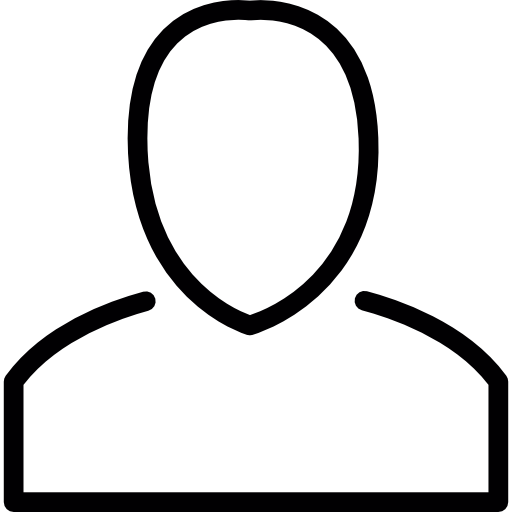
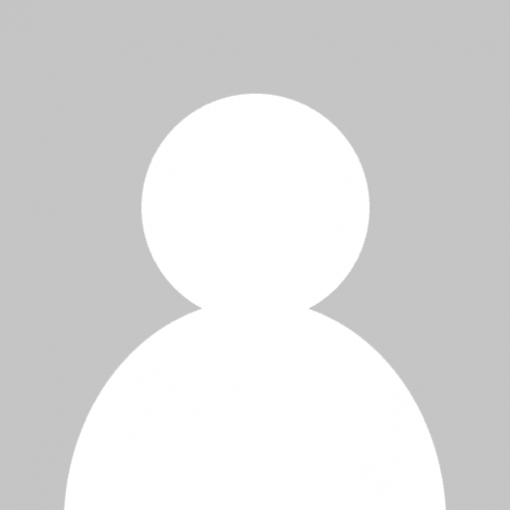
actualizacion principal y reportes

diff --git a/vista/css/inicio.css b/vista/css/inicio.css
@@ -1,9 +1,75 @@
-.imgPrincipla {
-    width: 100%;
+#principal {
     height: 100vh;
-    background-image: url(../imgs/principal/principal.svg);
-    background-size: contain;
-    background-attachment: fixed;
-    background-position: center;
-    background-repeat: no-repeat;
+    display: flex;
+    justify-content: center;
+    align-items: center;
+}
+
+
+/* #circulo {
+    animation: rotarCirculo 8s linear infinite;
+}
+
+@keyframes rotarCirculo {
+    0% {
+        transform: rotate(0deg);
+        transform-origin: center;
+    }
+    100% {
+        transform: rotate(360deg);
+        transform-origin: center;
+    }
+} */
+
+#flor1 {
+    animation: moverFlor1 2s ease infinite;
+}
+
+@keyframes moverFlor1 {
+    0% {
+        transform: translateY(50px);
+    }
+    50% {
+        transform: translateY(-50px);
+    }
+    100% {
+        transform: translateY(50px);
+    }
+}
+
+#flor2 {
+    animation: moverFlor2 2s .5s ease infinite;
+}
+
+@keyframes moverFlor2 {
+    0% {
+        transform: translateY(50px);
+    }
+    50% {
+        transform: translateY(-50px);
+    }
+    100% {
+        transform: translateY(50px);
+    }
+}
+
+#hombre {
+    animation: moverHombre 1s linear infinite;
+}
+
+@keyframes moverHombre {
+    0% {
+        transform: translateY(0px);
+    }
+    50% {
+        transform: translateY(-20px);
+    }
+    100% {
+        transform: translateY(0px);
+    }
+}
+
+svg {
+    width: 900px;
+    height: 900px;
 }

diff --git a/vista/modulos/inicio.php b/vista/modulos/inicio.php
@@ -1,5 +1,47 @@
 <body id="principal">
-    <header class="imgPrincipla">
-        
-    </header>
+    <svg width="642" height="598" viewBox="0 0 642 598" fill="none" xmlns="http://www.w3.org/2000/svg">
+        <g id="animacionInicio 1" clip-path="url(#clip0)">
+            <path id="circulo" d="M328.623 591.658C325.502 591.658 322.35 591.608 319.255 591.512L319.325 589.264C323.769 589.402 328.303 589.441 332.767 589.379L332.798 591.629C331.409 591.648 330.017 591.657 328.623 591.658ZM346.333 591.136L346.202 588.891C350.651 588.628 355.158 588.259 359.597 587.794L359.832 590.031C355.359 590.5 350.818 590.872 346.333 591.136V591.136ZM305.732 590.785C301.245 590.442 296.71 589.991 292.254 589.444L292.528 587.212C296.951 587.754 301.45 588.202 305.903 588.542L305.732 590.785ZM373.265 588.312L372.928 586.088C377.35 585.417 381.805 584.638 386.167 583.772L386.605 585.977C382.209 586.851 377.721 587.636 373.265 588.312ZM278.853 587.489C274.42 586.738 269.946 585.874 265.554 584.921L266.031 582.722C270.39 583.669 274.83 584.525 279.229 585.27L278.853 587.489ZM399.826 583.033L399.286 580.849C403.626 579.776 407.99 578.589 412.258 577.324L412.897 579.481C408.596 580.756 404.199 581.952 399.826 583.033ZM252.389 581.743C248.04 580.586 243.665 579.314 239.383 577.96L240.061 575.816C244.31 577.159 248.652 578.421 252.966 579.568L252.389 581.743ZM425.789 575.33L425.051 573.206C429.263 571.741 433.498 570.158 437.643 568.5L438.478 570.589C434.303 572.26 430.034 573.855 425.789 575.33L425.789 575.33ZM226.532 573.568C222.309 572.016 218.059 570.341 213.903 568.59L214.776 566.516C218.901 568.254 223.117 569.916 227.308 571.457L226.532 573.568ZM450.906 565.28L449.974 563.233C454.019 561.395 458.084 559.433 462.057 557.402L463.081 559.406C459.077 561.452 454.981 563.428 450.906 565.28ZM201.52 563.037C197.461 561.103 193.386 559.045 189.411 556.921L190.471 554.937C194.417 557.045 198.46 559.087 202.488 561.007L201.52 563.037ZM474.975 552.976L473.861 551.023C477.74 548.81 481.612 546.483 485.368 544.107L486.569 546.008C482.785 548.402 478.885 550.748 474.975 552.976ZM177.599 550.257C173.738 547.96 169.871 545.538 166.107 543.058L167.345 541.18C171.08 543.641 174.917 546.044 178.749 548.323L177.599 550.257ZM497.835 538.514L496.548 536.671C500.2 534.119 503.845 531.447 507.381 528.729L508.752 530.513C505.19 533.251 501.516 535.944 497.835 538.514ZM154.96 535.346C151.329 532.709 147.702 529.946 144.179 527.133L145.582 525.375C149.079 528.167 152.678 530.908 156.281 533.525L154.96 535.346ZM519.294 522.022L517.844 520.302C521.248 517.429 524.636 514.436 527.915 511.404L529.441 513.056C526.138 516.111 522.724 519.127 519.294 522.022ZM133.785 518.439C130.403 515.477 127.044 512.397 123.8 509.283L125.358 507.659C128.577 510.75 131.911 513.807 135.267 516.747L133.785 518.439ZM539.173 503.635L537.571 502.055C540.709 498.875 543.814 495.584 546.796 492.274L548.468 493.779C545.462 497.115 542.335 500.43 539.173 503.635V503.635ZM114.244 499.685C111.142 496.422 108.078 493.05 105.137 489.662L106.836 488.188C109.754 491.55 112.795 494.896 115.875 498.133L114.244 499.685ZM557.305 483.51L555.567 482.082C558.402 478.631 561.194 475.071 563.866 471.498L565.668 472.845C562.975 476.445 560.162 480.034 557.305 483.51ZM96.4971 479.239C93.7109 475.718 90.9675 472.083 88.3427 468.435L90.1683 467.122C92.7733 470.741 95.4959 474.349 98.2613 477.844L96.4971 479.239ZM573.535 461.807L571.674 460.544C574.183 456.85 576.64 453.048 578.976 449.242L580.894 450.42C578.538 454.254 576.062 458.086 573.535 461.807ZM80.6919 457.275C78.2407 453.517 75.8416 449.651 73.5607 445.78L75.4984 444.637C77.7623 448.479 80.1432 452.317 82.5758 456.045L80.6919 457.275ZM587.725 438.703L585.756 437.616C587.916 433.708 590.014 429.694 591.994 425.686L594.011 426.683C592.016 430.721 589.901 434.765 587.725 438.703ZM66.9639 433.973C64.8658 430.008 62.8315 425.939 60.9174 421.882L62.9518 420.922C64.8516 424.949 66.87 428.986 68.9521 432.921L66.9639 433.973ZM599.738 414.383L597.678 413.481C599.47 409.387 601.192 405.194 602.794 401.02L604.895 401.826C603.28 406.033 601.544 410.258 599.738 414.383V414.383ZM55.4333 409.529C53.7087 405.39 52.0571 401.156 50.5248 396.942L52.6393 396.173C54.1596 400.355 55.7985 404.557 57.5093 408.664L55.4333 409.529ZM609.466 389.04L607.331 388.332C608.735 384.102 610.06 379.779 611.268 375.48L613.434 376.089C612.216 380.42 610.88 384.778 609.466 389.04L609.466 389.04ZM46.1913 384.11C44.8529 379.823 43.5951 375.443 42.4533 371.091L44.6293 370.52C45.7623 374.839 47.0107 379.185 48.3388 383.44L46.1913 384.11ZM616.799 362.969L614.607 362.459C615.615 358.124 616.535 353.696 617.345 349.301L619.557 349.707C618.742 354.137 617.814 358.598 616.799 362.969L616.799 362.969ZM39.3203 357.914C38.3823 353.52 37.5332 349.044 36.7972 344.607L39.0161 344.238C39.7471 348.642 40.5896 353.084 41.5206 357.444L39.3203 357.914ZM621.701 336.336L619.471 336.03C620.076 331.624 620.587 327.132 620.99 322.676L623.231 322.878C622.825 327.369 622.31 331.896 621.701 336.336L621.701 336.336ZM34.887 331.199C34.3564 326.746 33.9208 322.21 33.5919 317.719L35.836 317.554C36.1617 322.013 36.5945 326.513 37.1212 330.933L34.887 331.199ZM624.147 309.367L621.9 309.266C622.1 304.809 622.202 300.287 622.202 295.829H624.451C624.452 300.322 624.349 304.877 624.147 309.367L624.147 309.367ZM32.9103 304.191C32.8334 301.433 32.7945 298.619 32.7939 295.829C32.7939 294.098 32.8087 292.37 32.8384 290.645L35.088 290.685C35.0584 292.396 35.0435 294.111 35.0435 295.829C35.0441 298.598 35.0831 301.391 35.1589 304.13L32.9103 304.191ZM622.185 292.69C622.139 288.23 621.99 283.709 621.743 279.253L623.988 279.128C624.237 283.618 624.388 288.173 624.435 292.666L622.185 292.69ZM35.622 277.254L33.3768 277.114C33.6575 272.619 34.0452 268.079 34.528 263.62L36.7645 263.862C36.285 268.288 35.9011 272.793 35.622 277.254ZM620.691 265.854C620.241 261.419 619.682 256.932 619.03 252.516L621.255 252.188C621.912 256.637 622.476 261.159 622.929 265.627L620.691 265.854ZM38.5159 250.536L36.2926 250.193C36.9819 245.742 37.7827 241.257 38.673 236.859L40.8776 237.305C39.9945 241.669 39.1997 246.121 38.5159 250.536ZM616.759 239.271C615.901 234.882 614.934 230.465 613.881 226.141L616.067 225.61C617.127 229.966 618.102 234.418 618.967 238.839L616.759 239.271ZM43.8446 224.197L41.6625 223.65C42.7549 219.293 43.9649 214.899 45.2589 210.591L47.4129 211.238C46.1294 215.513 44.9287 219.873 43.8446 224.197ZM610.401 213.158C609.147 208.875 607.776 204.566 606.327 200.35L608.454 199.618C609.915 203.867 611.297 208.21 612.561 212.525L610.401 213.158ZM51.5889 198.423L49.4666 197.677C50.9616 193.424 52.5758 189.151 54.2642 184.976L56.3502 185.82C54.6744 189.962 53.0723 194.203 51.5888 198.423H51.5889ZM601.665 187.743C600.024 183.603 598.267 179.448 596.441 175.393L598.493 174.469C600.333 178.555 602.104 182.742 603.757 186.914L601.665 187.743ZM61.6858 173.455L59.6415 172.516C61.5205 168.424 63.5202 164.32 65.5853 160.32L67.5845 161.351C65.5348 165.322 63.5504 169.394 61.6858 173.455ZM590.655 163.291C588.642 159.32 586.509 155.34 584.315 151.464L586.272 150.356C588.484 154.262 590.632 158.272 592.661 162.274L590.655 163.291ZM74.033 149.535L72.0832 148.413C74.3274 144.516 76.694 140.615 79.1178 136.82L81.0138 138.03C78.6087 141.797 76.2597 145.668 74.0331 149.535H74.033ZM577.439 139.935C575.061 136.15 572.572 132.381 570.04 128.729L571.888 127.447C574.44 131.127 576.949 134.925 579.343 138.738L577.439 139.935ZM88.5129 126.86L86.6741 125.564C89.2676 121.886 91.9791 118.22 94.7352 114.667L96.5125 116.046C93.7779 119.572 91.0861 123.21 88.5129 126.86ZM562.136 117.87C559.425 114.32 556.602 110.79 553.743 107.379L555.467 105.934C558.347 109.371 561.192 112.927 563.924 116.505L562.136 117.87ZM104.995 105.611L103.283 104.152C106.193 100.734 109.227 97.3314 112.298 94.0392L113.943 95.5738C110.895 98.8412 107.884 102.218 104.995 105.611ZM544.88 97.2781C541.858 93.9887 538.723 90.7285 535.564 87.5891L537.15 85.993C540.334 89.1571 543.492 92.4415 546.537 95.7556L544.88 97.2781ZM123.335 85.9579L121.762 84.3497C124.979 81.2027 128.308 78.0913 131.656 75.1024L133.154 76.7808C129.832 79.7466 126.528 82.8344 123.335 85.9579H123.335ZM525.818 78.3318C522.506 75.3281 519.086 72.3655 515.655 69.5266L517.089 67.7932C520.546 70.6536 523.992 73.6386 527.329 76.6655L525.818 78.3318ZM143.378 68.0601L141.957 66.3157C145.437 63.4823 149.033 60.6877 152.645 58.0097L153.986 59.8167C150.4 62.475 146.831 65.248 143.378 68.0601ZM505.101 61.1909C501.527 58.5002 497.851 55.86 494.173 53.344L495.443 51.4876C499.149 54.0223 502.853 56.6822 506.454 59.3938L505.101 61.1909ZM164.954 52.0681L163.699 50.2019C167.423 47.6963 171.256 45.2429 175.094 42.9081L176.262 44.8304C172.455 47.147 168.65 49.5823 164.954 52.0681ZM482.896 46.0042C479.095 43.6512 475.191 41.3577 471.293 39.186L472.387 37.2209C476.315 39.409 480.249 41.7207 484.08 44.0906L482.896 46.0042ZM187.887 38.1188L186.807 36.1449C190.747 33.9892 194.786 31.8977 198.813 29.9276L199.802 31.9487C195.806 33.9035 191.797 35.979 187.887 38.1188L187.887 38.1188ZM459.386 32.9066C455.383 30.9124 451.283 28.9856 447.199 27.1803L448.108 25.1229C452.224 26.942 456.356 28.8835 460.39 30.8931L459.386 32.9066ZM211.983 26.3329L211.089 24.2689C215.206 22.4844 219.417 20.773 223.606 19.1819L224.404 21.2854C220.248 22.8639 216.068 24.5621 211.983 26.3329L211.983 26.3329ZM434.756 22.0198C430.591 20.4045 426.328 18.8633 422.084 17.4398L422.801 15.3066C427.076 16.7417 431.372 18.2944 435.569 19.9228L434.756 22.0198ZM237.076 16.8043L236.375 14.6667C240.65 13.2651 245.012 11.9452 249.339 10.7452L249.941 12.9124C245.647 14.1037 241.318 15.413 237.076 16.8042L237.076 16.8043ZM409.246 13.4595C404.955 12.2363 400.579 11.0972 396.239 10.074L396.755 7.88477C401.129 8.91568 405.538 10.0636 409.863 11.2955L409.246 13.4595ZM262.972 9.61758L262.471 7.42451C266.854 6.42324 271.318 5.511 275.74 4.71352L276.14 6.92691C271.751 7.71888 267.321 8.62399 262.972 9.61755V9.61758ZM383.089 7.29269C378.708 6.4705 374.246 5.73896 369.826 5.11829L370.138 2.89062C374.592 3.5162 379.09 4.25326 383.504 5.0815L383.089 7.29269ZM289.419 4.84479L289.121 2.6149C293.574 2.02063 298.103 1.52084 302.582 1.13091L302.777 3.37177C298.333 3.75948 293.839 4.25489 289.419 4.84476L289.419 4.84479ZM356.477 3.55409C352.045 3.13667 347.535 2.81482 343.07 2.59897L343.18 0.351547C347.678 0.569547 352.222 0.893661 356.687 1.31433L356.477 3.55409ZM316.192 2.5089L316.097 0.261475C320.232 0.0890046 324.445 0.00113052 328.623 3.05176e-05L329.641 0.00163269L329.635 2.2513L328.623 2.24963C324.477 2.25073 320.294 2.33806 316.192 2.50887V2.5089Z" fill="#000" />
+            <path id="Vector" d="M249.532 368.072L263.371 386.451C264.46 387.612 265.966 388.292 267.556 388.342C269.147 388.392 270.692 387.809 271.852 386.72L308.429 352.389C309.589 351.3 310.269 349.794 310.319 348.204C310.37 346.613 309.786 345.068 308.697 343.908L298.596 333.146C297.507 331.986 296.002 331.306 294.411 331.255C292.821 331.205 291.275 331.788 290.115 332.877L249.8 359.591C248.64 360.68 247.96 362.186 247.91 363.776C247.859 365.367 248.443 366.912 249.532 368.072Z" fill="#CCCCCC" />
+            <g id="hombre">
+                <path id="Vector_2" d="M329.33 590.122V467.107C329.332 465.384 330.018 463.731 331.236 462.513C332.455 461.294 334.107 460.609 335.83 460.607H350.59C352.313 460.609 353.965 461.294 355.184 462.513C356.402 463.731 357.088 465.384 357.09 467.107V590.122C357.088 591.845 356.402 593.497 355.184 594.716C353.965 595.934 352.313 596.62 350.59 596.622H335.83C334.107 596.62 332.455 595.934 331.236 594.716C330.018 593.497 329.332 591.845 329.33 590.122Z" fill="#2F2E41" />
+                <path id="Vector_3" d="M300.138 590.122V467.107C300.14 465.384 300.825 463.731 302.044 462.513C303.262 461.294 304.914 460.609 306.638 460.607H321.398C323.121 460.609 324.773 461.294 325.992 462.513C327.21 463.731 327.896 465.384 327.898 467.107V590.122C327.896 591.845 327.21 593.497 325.992 594.716C324.773 595.934 323.121 596.62 321.398 596.622H306.638C304.914 596.62 303.262 595.934 302.044 594.716C300.825 593.497 300.14 591.845 300.138 590.122Z" fill="#2F2E41" />
+                <path id="Vector_4" d="M358.494 426.494H298.734C295.42 426.494 292.734 429.181 292.734 432.494V500C292.734 503.314 295.42 506 298.734 506H358.494C361.807 506 364.494 503.314 364.494 500V432.494C364.494 429.181 361.807 426.494 358.494 426.494Z" fill="#2F2E41" />
+                <path id="Vector_5" d="M228.149 233.226C228.149 233.226 197.99 247.236 172.469 256.527C156.632 220.776 133.816 222.114 133.816 222.114L119.984 231.639L122.478 245.924L121.798 269.281L118.17 281.526L123.376 282.467L126.317 283L126.761 282.599C126.027 285.507 125.73 288.508 125.88 291.503L256.721 271.095C256.721 271.095 252.186 250.006 228.149 233.226Z" fill="#E6E6E6" />
+                <path id="Vector_6" d="M189.513 417.106L198.285 428.975C200.255 431.64 204.012 432.204 206.676 430.235L305.605 357.121C308.27 355.151 308.834 351.394 306.864 348.729L298.092 336.86C296.122 334.195 292.365 333.631 289.7 335.601L190.772 408.714C188.107 410.684 187.543 414.441 189.513 417.106Z" fill="#27D86B" />
+                <path id="Vector_7" d="M358.083 332.828L345.046 339.746C342.119 341.3 341.005 344.932 342.558 347.859L411.223 456.52C412.776 459.447 416.409 460.561 419.336 459.008L432.373 452.089C435.3 450.535 436.414 446.903 434.86 443.976L366.196 335.315C364.642 332.388 361.01 331.274 358.083 332.828Z" fill="#27D86B" />
+                <path id="Vector_8" d="M394.632 381.053L373.339 395.168C370.085 396.895 366.188 395.922 364.635 392.995L341.12 348.684C339.566 345.757 340.945 341.984 344.199 340.257L358.692 332.566C361.945 330.839 365.842 331.812 367.396 334.739L397.711 372.626C399.264 375.553 397.886 379.326 394.632 381.053Z" fill="#CCCCCC" />
+                <path id="Vector_9" d="M362.145 331.059H295.083C291.769 331.059 289.083 333.746 289.083 337.059V479.535C289.083 482.849 291.769 485.535 295.083 485.535H362.145C365.459 485.535 368.145 482.849 368.145 479.535V337.059C368.145 333.746 365.459 331.059 362.145 331.059Z" fill="#CCCCCC" />
+                <path id="Vector_10" d="M328.222 321.761C357.78 321.761 381.741 297.8 381.741 268.242C381.741 238.684 357.78 214.723 328.222 214.723C298.664 214.723 274.703 238.684 274.703 268.242C274.703 297.8 298.664 321.761 328.222 321.761Z" fill="#27D86B" />
+                <path id="Vector_11" d="M334.46 286.111C331.153 286.019 327.038 285.903 323.871 283.589C322.927 282.871 322.151 281.956 321.599 280.907C321.046 279.857 320.729 278.7 320.671 277.516C320.614 276.674 320.752 275.831 321.074 275.051C321.397 274.272 321.896 273.578 322.531 273.023C324.185 271.625 326.603 271.295 329.209 272.062L326.51 252.336L328.492 252.064L331.664 275.255L330.01 274.496C328.093 273.615 325.459 273.168 323.822 274.551C323.42 274.912 323.108 275.361 322.908 275.863C322.708 276.365 322.626 276.907 322.67 277.445C322.718 278.327 322.956 279.188 323.367 279.969C323.778 280.75 324.352 281.434 325.051 281.974C327.515 283.774 330.796 284.008 334.517 284.111L334.46 286.111Z" fill="#2F2E41" />
+                <path id="Vector_12" d="M316.711 254.037H305.939V256.037H316.711V254.037Z" fill="#2F2E41" />
+                <path id="Vector_13" d="M350.711 254.037H339.939V256.037H350.711V254.037Z" fill="#2F2E41" />
+                <path id="Vector_14" d="M292.866 226.419C284.192 225.43 277.474 217.119 276.736 208.686C275.858 198.654 281.701 189.126 289.716 183.497C298.098 177.609 308.542 175.151 318.646 174.61C338.358 173.629 357.729 180.014 372.994 192.523C380.566 198.812 387.637 206.822 390.317 216.498C392.645 224.9 390.751 234.42 383.992 240.305C382.321 241.747 380.368 242.827 378.258 243.477C376.148 244.126 373.926 244.332 371.732 244.08C366.488 243.535 361.65 240.778 357.462 237.733C349.315 231.809 342.627 223.557 332.701 220.462C325.424 218.192 315.979 220.19 311.532 226.771C310.523 228.278 309.869 229.994 309.619 231.79C309.527 232.173 309.585 232.577 309.779 232.92C309.974 233.262 310.291 233.518 310.667 233.635C311.051 233.739 311.459 233.687 311.805 233.49C312.15 233.294 312.404 232.97 312.512 232.588C313.68 224.298 323.872 221.205 331.025 223.098C341.453 225.858 348.454 235.164 357.01 241.077C361.509 244.185 366.625 246.671 372.143 247.117C376.899 247.49 381.619 246.04 385.346 243.061C392.655 237.289 395.451 227.361 393.834 218.423C391.963 208.073 384.996 199.202 377.352 192.334C361.857 178.558 341.739 171.126 321.008 171.52C310.435 171.762 299.402 173.945 290.293 179.534C281.458 184.955 274.628 194.024 273.736 204.566C272.95 213.845 277.928 223.55 286.474 227.615C288.489 228.57 290.65 229.179 292.866 229.419C294.781 229.638 294.766 226.636 292.866 226.419H292.866Z" fill="#2F2E41" />
+                <path id="Vector_15" d="M126.22 281.186L132.569 279.145C133.249 277.841 132.004 278.678 132.598 277.41C148.662 243.14 133.816 222.114 133.816 222.114L122.331 230.022C122.303 229.957 122.28 229.89 122.251 229.824C122.251 229.824 120.21 225.289 117.036 228.69C117.036 228.69 127.013 252.954 115.902 283.113L128.827 289.009L133.816 283.113L133.93 282.546L125.001 281.735L126.22 281.186Z" fill="#CCCCCC" />
+                <path id="Vector_16" d="M307.289 408.512C256.267 397.174 208.761 420.644 208.761 420.644L208.632 420.528L189.713 403.637L115.789 283L133.816 283.113C183.93 253.181 254.453 257.263 254.453 257.263C284.839 291.73 307.289 408.512 307.289 408.512Z" fill="#3F3D56" />
+                <path id="Vector_17" opacity="0.1" d="M208.632 420.529L189.713 403.637L115.789 283L133.816 283.113C133.816 283.113 205.668 378.011 208.632 420.529Z" fill="black" />
+                <path id="Vector_18" d="M216.935 326.401C232.38 321.664 242.46 309.864 239.448 300.046C236.437 290.228 221.475 286.11 206.029 290.847C190.584 295.584 180.504 307.384 183.516 317.202C186.527 327.02 201.489 331.138 216.935 326.401Z" fill="#27D86B" />
+            </g>
+            <g id="flor1">
+                <path id="Vector_19" d="M59.0116 224.508C54.9377 239.567 40.984 248.894 40.984 248.894C40.984 248.894 33.6352 233.804 37.709 218.745C41.7828 203.686 55.7366 194.359 55.7366 194.359C55.7366 194.359 63.0854 209.449 59.0116 224.508Z" fill="#CCCCCC" />
+                <path id="Vector_20" d="M21.9512 224.508C26.025 239.567 39.9787 248.894 39.9787 248.894C39.9787 248.894 47.3275 233.804 43.2537 218.745C39.1799 203.686 25.2262 194.359 25.2262 194.359C25.2262 194.359 17.8774 209.449 21.9512 224.508Z" fill="#CCCCCC" />
+                <path id="Vector_21" d="M27.9373 221.271C39.116 232.153 40.4814 248.881 40.4814 248.881C40.4814 248.881 23.7226 247.966 12.544 237.084C1.36538 226.202 0 209.474 0 209.474C0 209.474 16.7587 210.389 27.9373 221.271Z" fill="#3F3D56" />
+                <path id="Vector_22" d="M53.0254 221.271C41.8467 232.153 40.4814 248.881 40.4814 248.881C40.4814 248.881 57.2401 247.966 68.4187 237.084C79.5973 226.202 80.9627 209.474 80.9627 209.474C80.9627 209.474 64.204 210.389 53.0254 221.271Z" fill="#3F3D56" />
+            </g>
+            <g id="flor2">
+                <path id="Vector_23" d="M620.012 394.508C615.938 409.567 601.984 418.894 601.984 418.894C601.984 418.894 594.635 403.804 598.709 388.745C602.783 373.686 616.737 364.359 616.737 364.359C616.737 364.359 624.085 379.449 620.012 394.508Z" fill="#CCCCCC" />
+                <path id="Vector_24" d="M582.951 394.508C587.025 409.567 600.979 418.894 600.979 418.894C600.979 418.894 608.327 403.804 604.254 388.745C600.18 373.686 586.226 364.359 586.226 364.359C586.226 364.359 578.877 379.449 582.951 394.508Z" fill="#CCCCCC" />
+                <path id="Vector_25" d="M588.937 391.271C600.116 402.153 601.481 418.881 601.481 418.881C601.481 418.881 584.723 417.966 573.544 407.084C562.365 396.202 561 379.474 561 379.474C561 379.474 577.759 380.389 588.937 391.271Z" fill="#3F3D56" />
+                <path id="Vector_26" d="M614.025 391.271C602.847 402.153 601.481 418.881 601.481 418.881C601.481 418.881 618.24 417.966 629.419 407.084C640.597 396.202 641.963 379.474 641.963 379.474C641.963 379.474 625.204 380.389 614.025 391.271Z" fill="#3F3D56" />
+            </g>
+            <path id="Vector_27" d="M445.963 596H213.963V598H445.963V596Z" fill="#3F3D56" />
+        </g>
+        <defs>
+            <clipPath id="clip0">
+                <rect width="641.963" height="598" fill="white" />
+            </clipPath>
+        </defs>
+    </svg>
+
+
 </body>

diff --git a/vista/modulos/informes/estudianteInformeP.php b/vista/modulos/informes/estudianteInformeP.php
@@ -68,13 +68,19 @@ class PDF extends FPDF
     function BasicTable($header, $data)
     {
         // Cabecera
+        $this->SetXY(40, 120);
+        $this->SetFont('Arial', 'B', 11);
+        $this->SetTextColor(0, 0, 0);
         foreach ($header as $col)
-            $this->Cell(40, 7, $col, 1);
+            $this->Cell(70, 10, $col, 1, 0, 'C');
         $this->Ln();
         // Datos
         foreach ($data as $row) {
+            $this->SetX(40);
+            $this->SetFont('Arial', 'I', 10);
+
             foreach ($row as $col)
-                $this->Cell(40, 6, $col, 1);
+                $this->Cell(70, 8, $col, 1, 0, 'L');
             $this->Ln();
         }
     }
@@ -111,38 +117,6 @@ class PDF extends FPDF
         $this->SetX(11);
         $this->Write(5, '+(57)7889-8787');
     }
-    // function cabeceraHorizontal($cabecera)
-    // {
-    //     $this->SetXY(10, 10);
-    //     $this->SetFont('Arial', 'B', 10);
-    //     $this->SetTextColor(0,0,0);
-    //     foreach ($cabecera as $fila) {
-    //         //Atención!! el parámetro valor 0, hace que sea horizontal
-    //         $this->Cell(24, 7, utf8_decode($fila), 1, 0, 'L');
-    //     }
-    // }
-
-    // function datosHorizontal($datos)
-    // {
-    //     $this->SetXY(10, 17);
-    //     $this->SetFont('Arial', '', 10);
-    //     //Siendo un array tipo: $datos => $fila
-    //     //Significa que $datos tiene 'nombre' 'apellido' 'matricula'
-    //     //$fila tiene cada valor de los antes mencionados
-    //     foreach ($datos as $fila) {
-    //         $this->Cell(24, 7, utf8_decode($fila['nombre']), 1, 0, 'L');
-    //         $this->Cell(24, 7, utf8_decode($fila['apellido']), 1, 0, 'L');
-    //         $this->Cell(24, 7, utf8_decode($fila['matricula']), 1, 0, 'L');
-    //         $this->Ln(); //Salto de línea para generar otra fila
-    //     }
-    // }
-
-    // //Integrando cabecera y datos en un solo método
-    // function tablaHorizontal($cabeceraHorizontal, $datosHorizontal)
-    // {
-    //     $this->cabeceraHorizontal($cabeceraHorizontal);
-    //     $this->datosHorizontal($datosHorizontal);
-    // }
 }
 $rutaImagen = "../../../";
 
@@ -205,8 +179,9 @@ if (isset($_GET["idEstudiante"]) && isset($_GET["idPeriodo"]) && isset($_GET["id
     $objPfd->SetFont('Arial', 'B', 15);
     $objPfd->SetTextColor(0, 0, 0);
     if ($datos["url"] == null || $datos["url"] == "") {
+        $objPfd->Image('../../../vista/imgs/usuarioDefecto.png', 10, 55, 50, 50);
     } else {
-        $objPfd->Image($rutaImagen . $datos["url"], 10, 60, 40, 50);
+        $objPfd->Image($rutaImagen . $datos["url"], 10, 60, 50, 50);
     }
 
     $objPfd->SetY(70);
@@ -230,36 +205,13 @@ if (isset($_GET["idEstudiante"]) && isset($_GET["idPeriodo"]) && isset($_GET["id
     $objPfd->SetTextColor(255, 255, 255);
     $objPfd->SetFillColor(39, 216, 107);
 
-   
-
-
     $notas = $objPfd->resultadosNota();
 
     $header = array('Asignatura', 'Nota');
 
     $objPfd->SetTextColor(0, 0, 0);
 
-    $objPfd->BasicTable($header,$notas);
-
-
-
-
-
-
-
-    // $miCabecera = array('Nombre', 'Apellido', 'Matrícula');
-
-    // $misDatos = array(
-    //     array('nombre' => 'Hugo', 'apellido' => 'Martínez', 'matricula' => '20420423'),
-    //     array('nombre' => 'Araceli', 'apellido' => 'Morales', 'matricula' =>  '204909'),
-    //     array('nombre' => 'Georgina', 'apellido' => 'Galindo', 'matricula' =>  '2043442'),
-    //     array('nombre' => 'Luis', 'apellido' => 'Dolores', 'matricula' => '20411122'),
-    //     array('nombre' => 'Mario', 'apellido' => 'Linares', 'matricula' => '2049990'),
-    //     array('nombre' => 'Viridiana', 'apellido' => 'Badillo', 'matricula' => '20418855'),
-    //     array('nombre' => 'Yadira', 'apellido' => 'García', 'matricula' => '20443335')
-    // );
-
-    // $objPfd->tablaHorizontal($miCabecera, $misDatos);
+    $objPfd->BasicTable($header, $notas);
 
     $objPfd->SetTextColor(0, 0, 0);
     $objPfd->SetFillColor(255, 255, 255);
